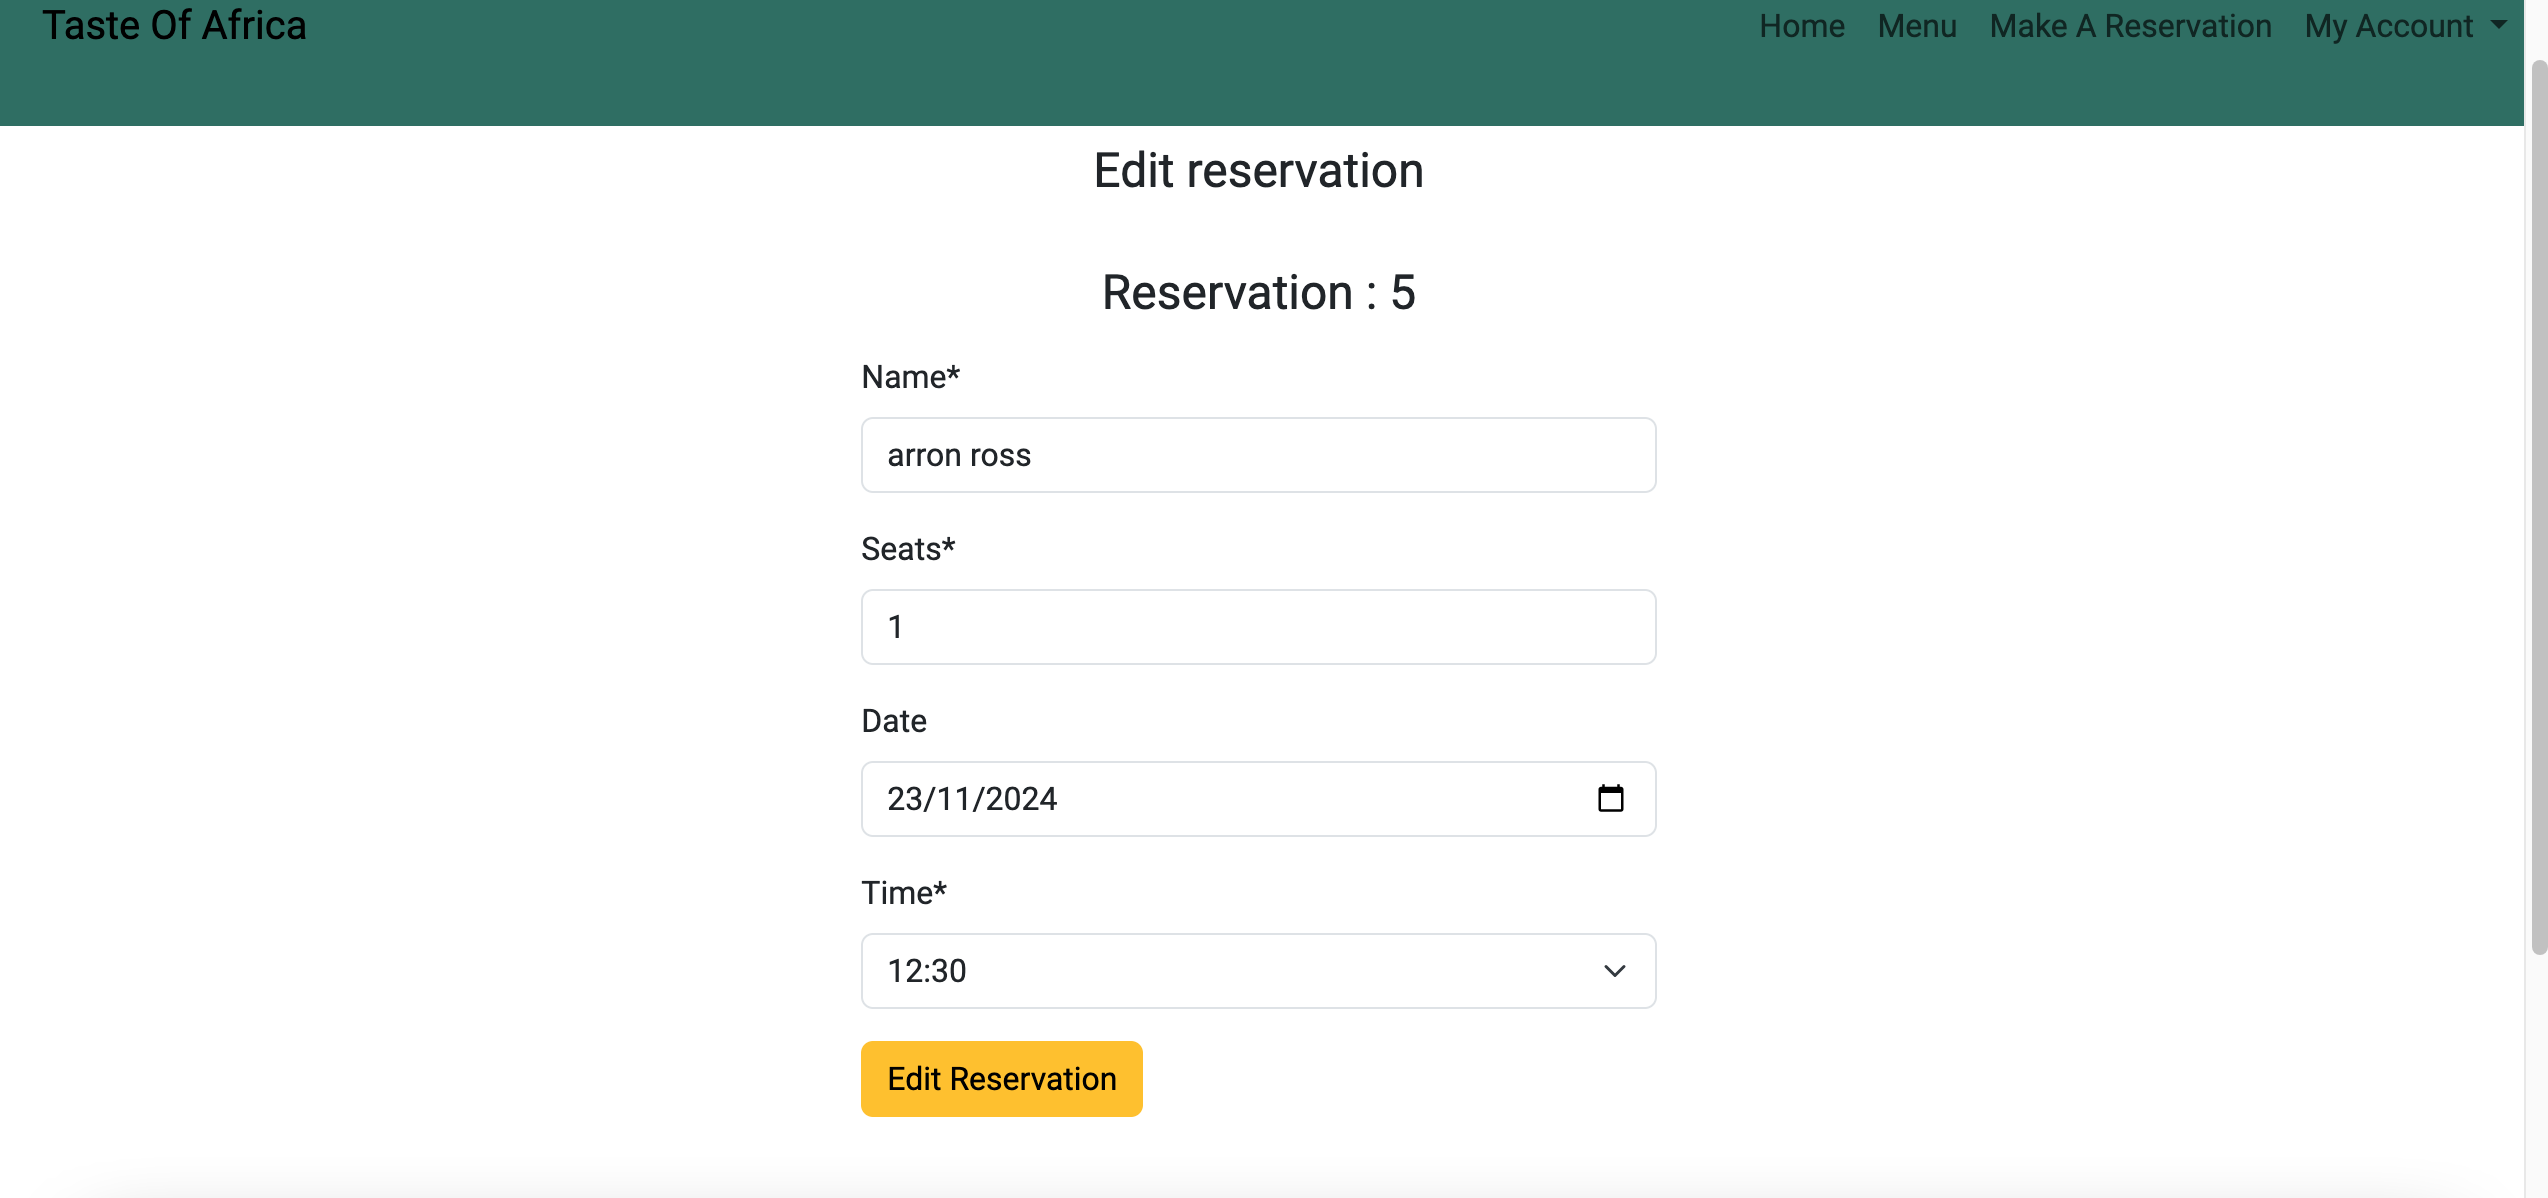
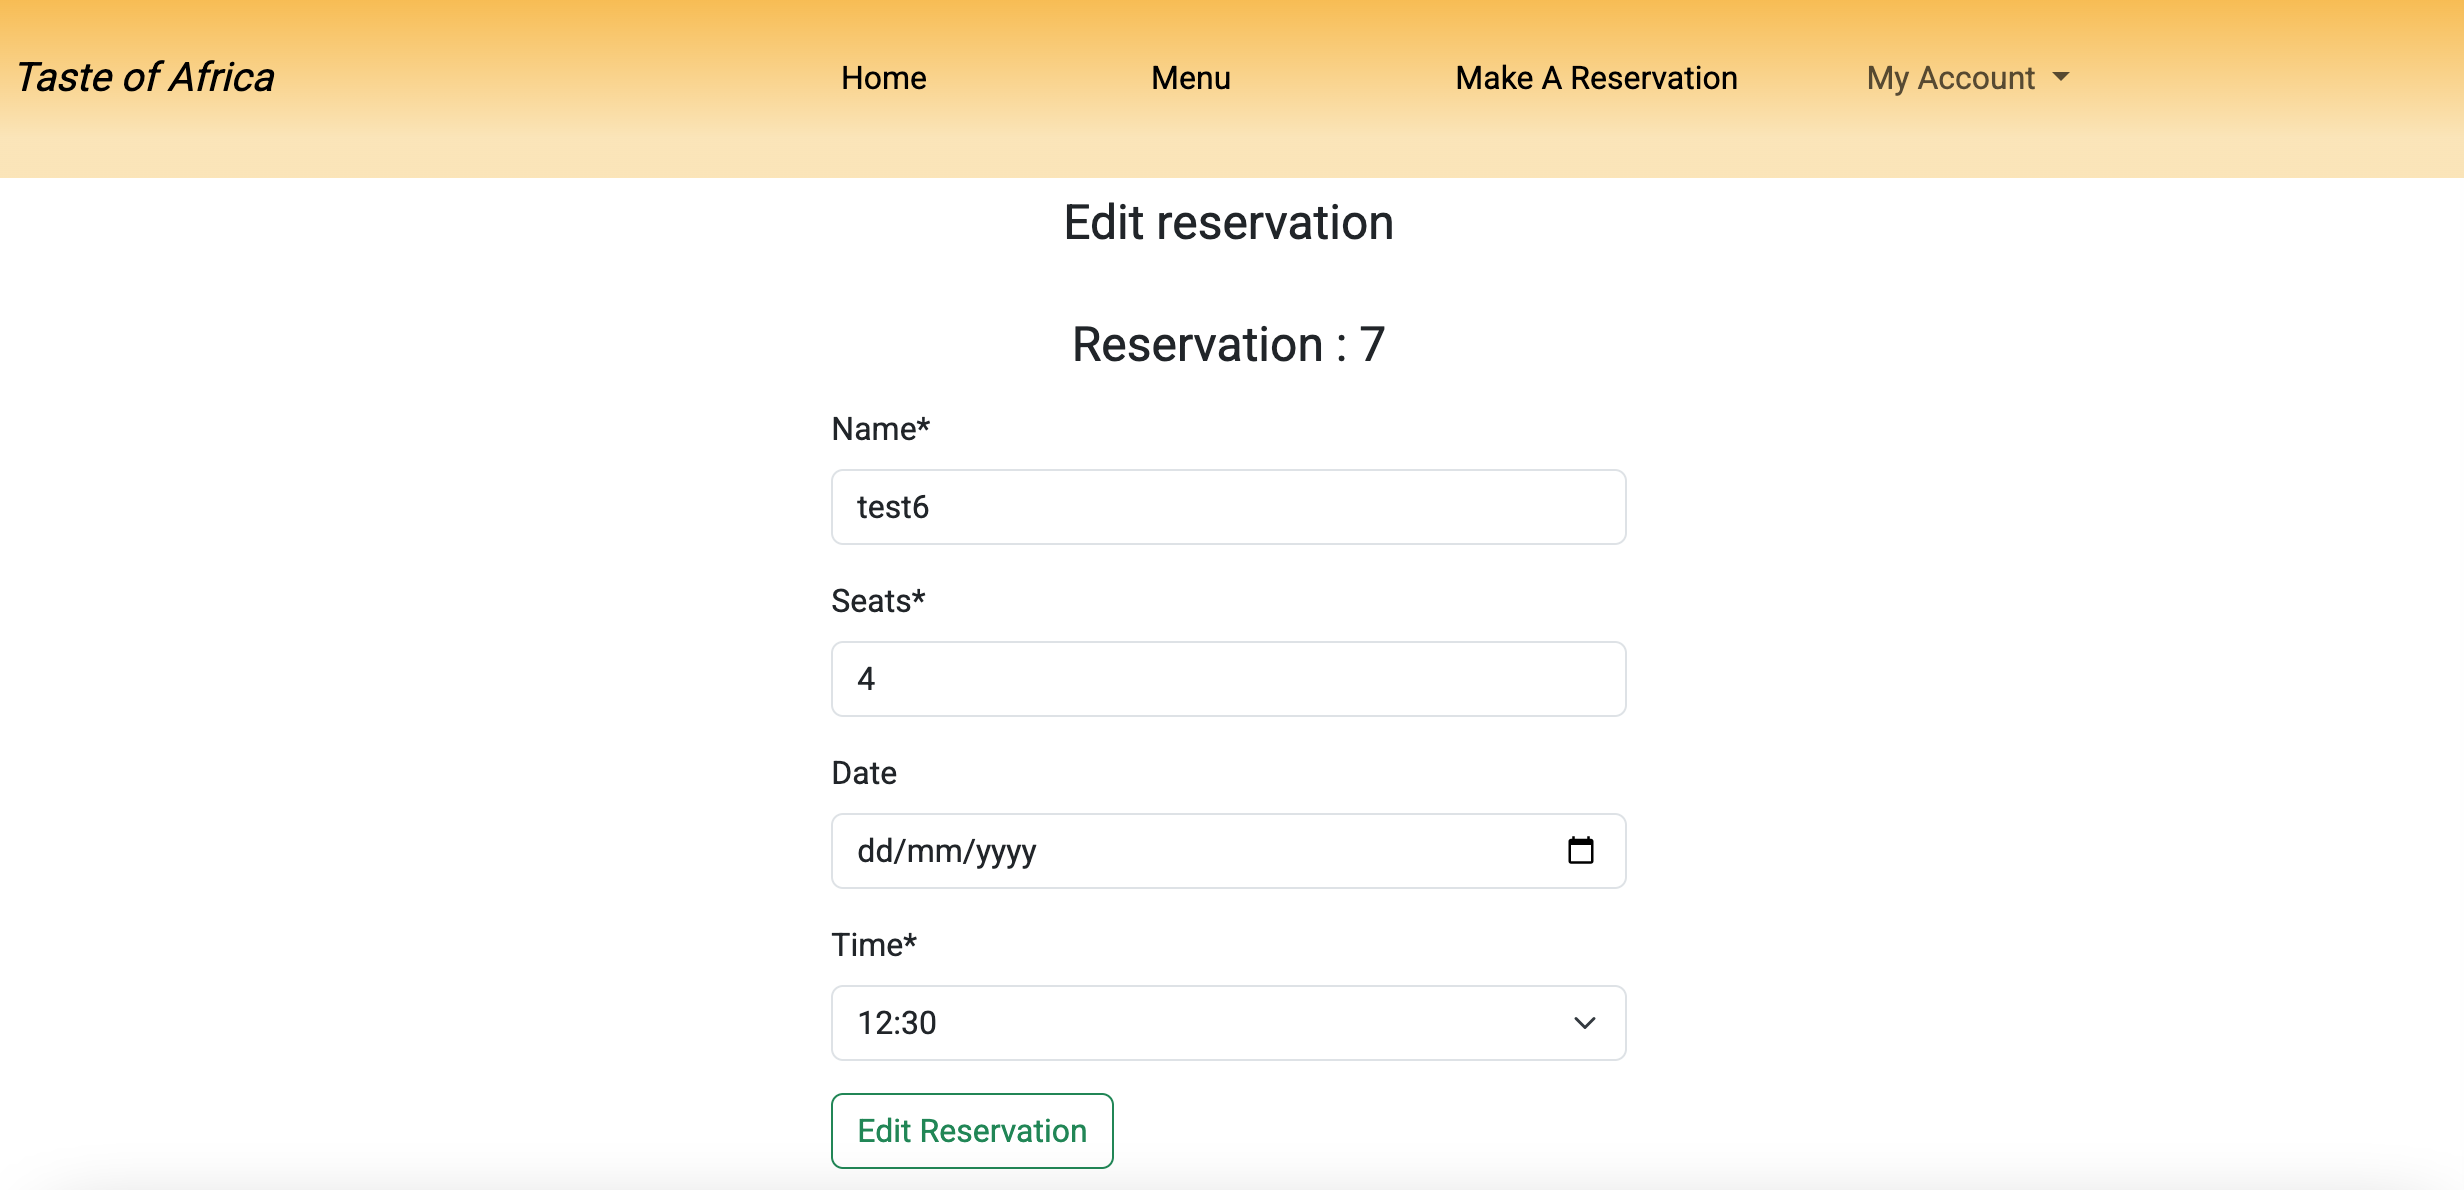
added unfixed bugs into read me

diff --git a/templates/allauth/account/login.html b/templates/allauth/account/login.html
@@ -9,6 +9,7 @@
   <div class="container">
       <div class="row text-center">
         <h1>{% trans "Sign In" %}</h1>
+        <hr>
       </div>
 
     {% get_providers as socialaccount_providers %}
@@ -31,22 +32,21 @@
     {% include "socialaccount/snippets/login_extra.html" %}
 
     {% else %}
-    <p>{% blocktrans %}If you have not created an account yet, then please
+    <p class="text-center">{% blocktrans %}If you have not created an account yet, then please
     <a href="{{ signup_url }}">sign up</a> first.{% endblocktrans %}</p>
     {% endif %}
 
-    <div class="row d-flex justify-content-center"></div>
-      <div class="col-6">
-        <form class="login" method="POST" action="{% url 'account_login' %}" style="margin-bottom: 100px;">
-          {% csrf_token %}
-          {{ form.as_p }}
-          {% if redirect_field_value %}
-          <input type="hidden" name="{{ redirect_field_name }}" value="{{ redirect_field_value }}" />
-          {% endif %}
-          <a class="button secondaryAction" href="{% url 'account_reset_password' %}">{% trans "Forgot Password?" %}</a>
-          <button class="btn btn-dark" type="submit">{% trans "Sign In" %}</button>
-        </form>
-      </div>
+    <div class="row d-flex justify-content-center">
+        <div class="col-6">
+          <form class="login" method="POST" action="{% url 'account_login' %}" style="margin-bottom: 100px;">
+            {% csrf_token %}
+            {{ form.as_p }}
+            {% if redirect_field_value %}
+            <input type="hidden" name="{{ redirect_field_name }}" value="{{ redirect_field_value }}" />
+            {% endif %}
+            <button class="btn btn-dark" type="submit">{% trans "Sign In" %}</button>
+          </form>
+        </div>
     </div>
   </div>
 

diff --git a/templates/index.html b/templates/index.html
@@ -8,7 +8,7 @@
     <div class="row-contetn mt-1 d-flex justify-content-center">
         <!--Homepage-->
         <div class="col-12 col-sm-8 col-lg-10">
-            <h1>Taste of Africa</h1>
+            <h1><em>Welcome To Taste of Africa</em></h1>
         </div>
     </div>
     <hr>
@@ -48,7 +48,6 @@
 
             <div class="about-section mt-5">
                 <h2 class="text-center">About Us</h2>
-                <h3 class="text-center">Welcome to Taste of Africa</h3>
                 <hr>
                 <p class="text-center mb-3">At <strong>Taste of Africa,</strong> we believe great food brings
                    people together. Our passion for fresh ingredients, bold flavors, and warm hospitality creates
@@ -80,5 +79,4 @@
         </div>
     </div>
 </div>
-
 {% endblock %} 

diff --git a/templates/allauth/account/logout.html b/templates/allauth/account/logout.html
@@ -11,7 +11,7 @@
   <div class="row d-flex justify-content-center">
 
     <hr>
-  <h1 class="logo-font mb-4">{% trans "Sign Out" %}</h1>
+  <h1 class="logo-font mb-4 text-center">{% trans "Sign Out" %}</h1>
   <hr>
   <p class="text-center">{% trans 'Are you sure you want to sign out?' %}</p>
 
@@ -20,7 +20,9 @@
     {% if redirect_field_value %}
     <input type="hidden" name="{{ redirect_field_name }}" value="{{ redirect_field_value }}"/>
     {% endif %}
-    <button class="btn btn-dark" type="submit">{% trans 'Sign Out' %}</button>
+    <div class="text-center">
+      <button class="btn btn-dark" type="submit">{% trans 'Sign Out' %}</button>
+    </div>
   </form>
 
   </div>

diff --git a/static/css/base.css b/static/css/base.css
@@ -3,13 +3,14 @@
 /* General Styling */
 
 body {
-    background-color: #FFFFFF;
+    background-color: #0000;
     font-family: 'Roboto', sans-serif;
 }
 
 /* Navbar element */
 
 nav {
+    background-image: linear-gradient(#f8b735 0%, #fbe5b6 80%);
     height: 100px;
     color: #561217;
 }
@@ -47,6 +48,7 @@ footer {
     display: flex;
     flex-flow: row wrap;
     color: #561217;
+    background-image: linear-gradient(#f8b735 0%, #fbe5b6 80%);
     bottom: 0;
  
 }

diff --git a/reservation/templates/reservation.html b/reservation/templates/reservation.html
@@ -12,7 +12,7 @@
                     {% csrf_token %}
                     {{ form|crispy }}
                     <br>
-                    <button type="submit" value="Post" class="btn btn-dark mb-4">Request Reservation</button>
+                    <button type="submit" value="Post" class="btn btn-outline-success mb-4">Request Reservation</button>
                 </form>
             </div>
         </div>

diff --git a/reservation/templates/edit_reservation.html b/reservation/templates/edit_reservation.html
@@ -18,12 +18,10 @@
                 {% csrf_token %}
                 {{ form|crispy }}
 
-                <button type="submit" value="post" class="btn btn-warning mb-4">
+                <button type="submit" value="post" class="btn btn-outline-success mb-4">
                     Edit Reservation</button>
             </form>
         </div>
     </div>
 </div>
-
-
 {% endblock %}

diff --git a/reservation/models.py b/reservation/models.py
@@ -51,4 +51,4 @@ class Reservation(models.Model):
 
     def __str__(self):
         return str(self.id)
-                                                                                                                                                                                                                                                                                                                                              
+                                                                                                                                                                                                                                                                                                                                        

diff --git a/TESTING.md b/TESTING.md
@@ -6,11 +6,11 @@ Please click the link ahead to return to readme file [README](README.md)
 
 ### As a user, I am able to nagivate through the website and view desired content with minimal issues
 
- - As a user, I am able to navigate through the website and view desired content with minimal issues
+ - As a user, I am able to navigate through the website and view desired content with minimal issues. Each feature has a navigation links which works perfectly, and these links can be found on the homepage
 
  ### As User, I want to be able to obtain key information of the restaurant from the landing page
 
-  - As a user, I am able to obtain key informatiion of the restaurant from the landing page
+  - As a user, I am able to obtain key informatiion of the restaurant from the landing page. The opening times are clearly displayed at the bottom of the page, on the footer. The social media links and address are also clearly displayed on the footer. It also clearly states how to book a reservation and also how to access the menu page.
 
 ### As the admin, I am able to login to the admin page so I can access the site's back end
 
@@ -23,23 +23,26 @@ Please click the link ahead to return to readme file [README](README.md)
  - ![Menu](static/screenshots/menu3.png)
 
 
- ### As a user, I want to be able to fill a booking form in order to make a reservation
+ ### As a user, I want to be able to fill a reservation form in order to make a reservation
 
-  - ![Reservation](static/screenshots/reservation.png)
+The reservation form consist of name field, number of seats, a date field and time slot.
+- ![Reservation](static/screenshots/reservation.png)
 
 ### As a user, I want to be able to register in order to log in and access my bookings 
 
-  - ![Signup](static/screenshots/signup1.png)
+Users are able to navigate to the register link up that is on the nav bar. Once they are at the sign up form, users will be prompted to input their usernames and password. Once done, users are then redirected to the homepage
+  - ![Signup](static/screenshots/signup.png)
 
 
 ### As a user, I want to be able to make amendments to my booking when I need/want to
 
- - ![Edit reservation](static/screenshots/Editreservation.png)
+Users are able to amend their booking via the manage resservation screen. The users can amend their time, date, seats and name on the booking.
+- ![Edit reservation](static/screenshots/editreservation.png)
 
 
  ### As a user, I want to be able to log in and cancel my booking when necessary
 
-  - ![Cancel reservation](static/screenshots/Cancelreservation.png)
+  - ![Cancel reservation](static/screenshots/cancel-reservation.png)
 
 ### As a user, I want to be aware of the opening time for when I want to make a reservations 
 
@@ -51,7 +54,8 @@ Please click the link ahead to return to readme file [README](README.md)
 
 ### As a user, I want to be able to log in and see all my reservations
 
- - ![Reservation](static/screenshots/my-reservation.png)
+Users can access their reservations via the manage reservation screen.
+- ![Reservation](static/screenshots/my-reservation.png)
 
 
 ### As the site owner, I want to be able to access the admin panel and be able to update the menu list
@@ -61,7 +65,7 @@ Please click the link ahead to return to readme file [README](README.md)
 - ![Add menu](static/screenshots/add-menu.png)
 
 
-# Broweser Responsivness 
+# Browser Responsivness 
 
 - Safari 
 ![Safari](static/screenshots/Screenshot%202024-11-29%20at%2011.13.17.png)
@@ -116,3 +120,5 @@ Please click the link ahead to return to readme file [README](README.md)
 
 - Seats option allows the user to pick a number that is less than zero
 - Users are also able to book duplicate reservation for the same date and time
+- Users are able to book a reservation without a date 
+- Users are able to book a reservation with an infinate amount of seats

diff --git a/README.md b/README.md
@@ -123,6 +123,8 @@ The website gives a registered used the functionality to logout of the website
   * The user will receive a confirmation that they would like to log out 
   * The sign out button logs the user out directs back to the homepage 
 
+![Logout](static/screenshots/logout.png)
+
 ## Sign UP
 
 The website has the functionality for a user to register for an account.
@@ -241,7 +243,7 @@ In the deploy tab
 - Enter the Github repository then click search 
 - choose the appropriate repository for your application. Once done, click on "Connect"
 - You will then have two options(automatic or manual deployment), the automatic deployment will generate a new application everytime a change has been pushed to github, whereas the manual deployment requires the user to "Deploy Branch" button whenever the user wants to make a change.
-- Once the method of deployemnt has been selected, click on "Deploy Branch", your application shoould then be built. To then see it, click view
+- Once the method of deployemnt has been selected, click on "Deploy Branch", your application should then be built. To then see it, click view
 
 
 # Credits
